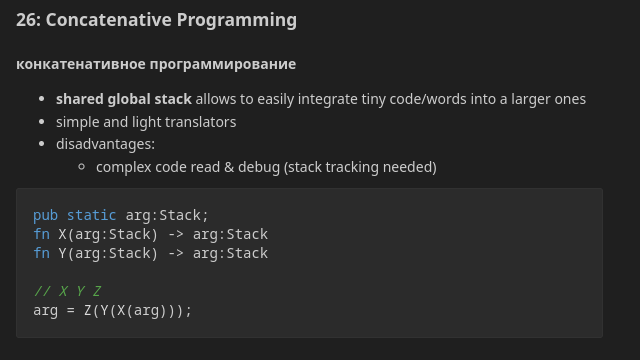
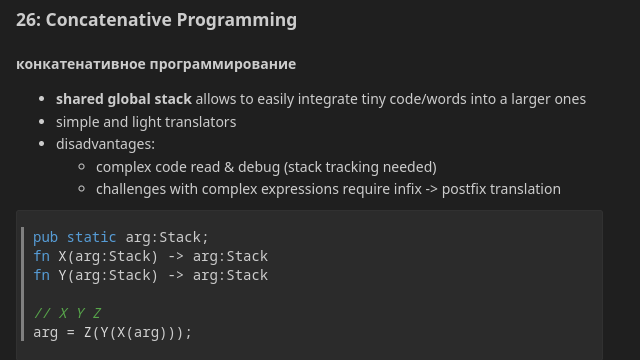
.

Changed region(s): [[0.0312, 0.5806, 0.4375, 0.9472], [0.125, 0.4889, 0.875, 0.55]]

diff --git a/doc/slide/26.md b/doc/slide/26.md
@@ -6,6 +6,7 @@
 - simple and light translators
 - disadvantages:
   - complex code read & debug (stack tracking needed)
+  - сhallenges with сomplex expressions require infix -> postfix translation
 
 ```Rust
 pub static arg:Stack;
@@ -21,7 +22,7 @@ arg = Z(Y(X(arg)));
 
 конкатенативное программирование — это парадигма программирования, в которой
 программы строятся путём композиции (соединения) функций, где каждая функция
-принимает и возвращает один и тот же тип данных (обычно стек).
+принимает и возвращает один и тот же тип данных (обычно стэк).
 
 В конкатенативных языках:
 - программа это множество независимых функций (форт-слов)
@@ -32,6 +33,6 @@ arg = Z(Y(X(arg)));
 Принцип математической композиции двух и более функций противопоставляется
 аппликативному стилю, где функциям явно передаются аргументы. Для реализации
 этого подхода функции обычно проектируются как унарные: они принимают один
-аргумент (состояние стека) и возвращают одно значение (новое состояние стека).
+аргумент (состояние стэка) и возвращают одно значение (новое состояние стэка).
 Это позволяет отказаться от явного указания аргументов и использовать
 бесточечный стиль (point-free) программирования.
